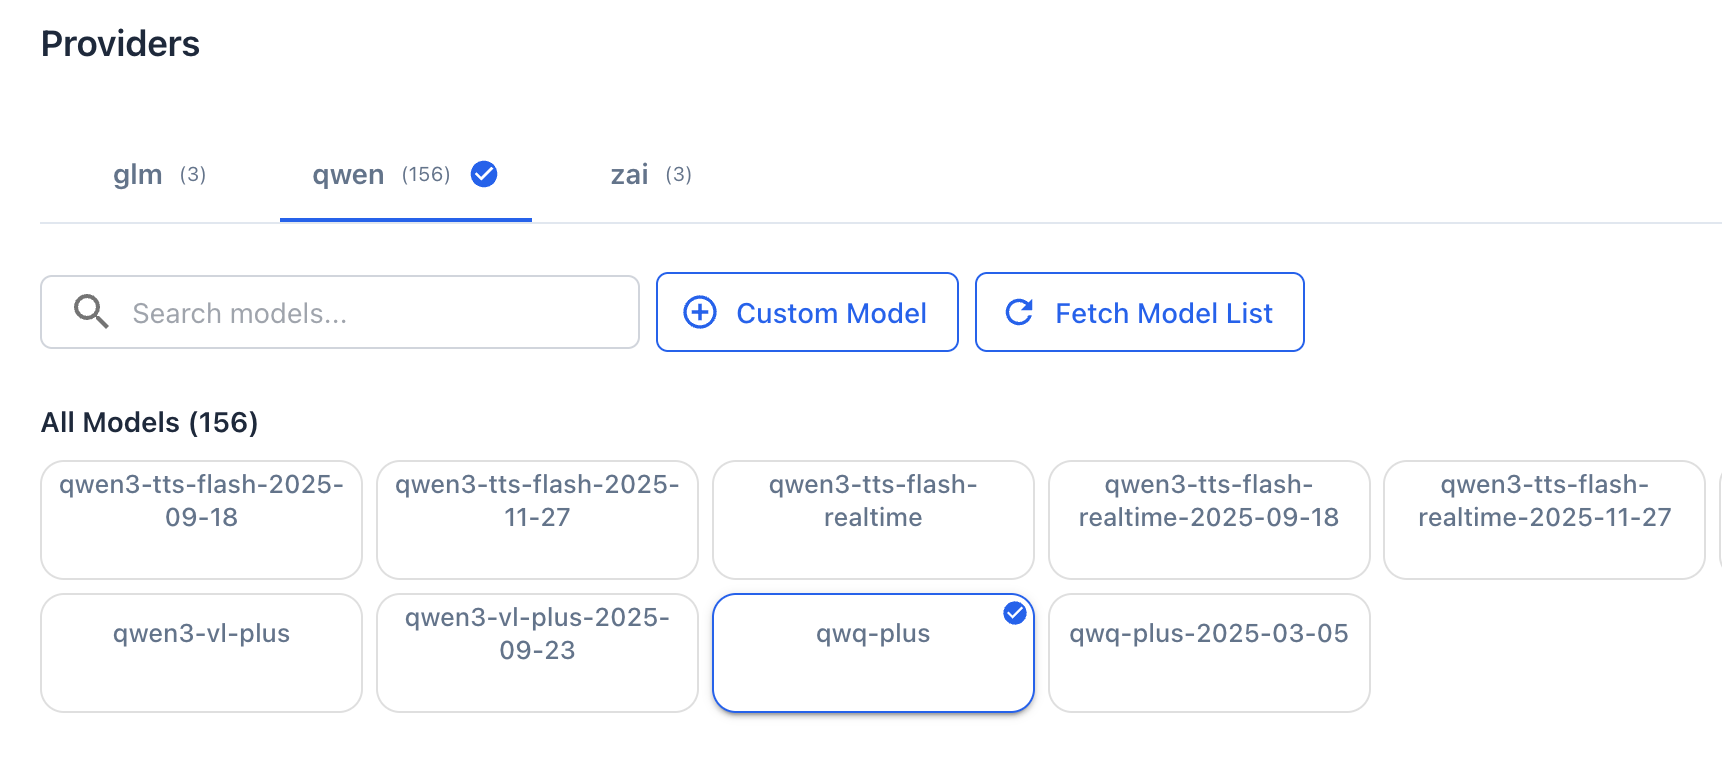
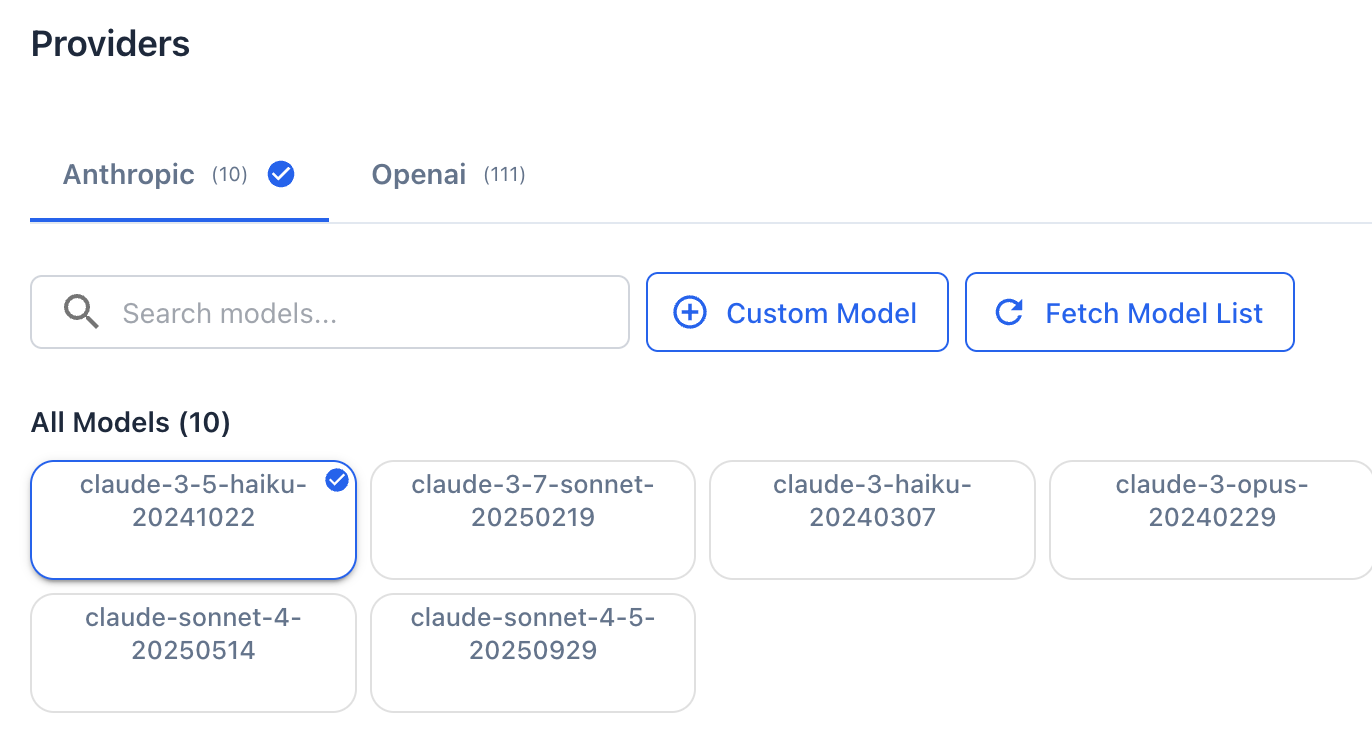
minor: update chooseProvider.png

diff --git a/src/data/code.tsx b/src/data/code.tsx
@@ -220,7 +220,7 @@ export const STEPS = [
                                 <RefreshCw size={14} className="text-cyan-400"/>
                             </div>
                             <p className={componentStyles.infoBox.text}>
-                                1. Click a provider (e.g., <b className="text-white">qwen</b>) and then click the <b
+                                1. Click a provider (e.g., <b className="text-white">Anthropic</b>) and then click the <b
                                 className="text-white">Fetch Model List</b> button to sync available models.
                             </p>
                         </div>
@@ -230,7 +230,7 @@ export const STEPS = [
                             </div>
                             <p className={componentStyles.infoBox.text}>
                                 2. Simply click your favorite <b className="text-white">model name</b> (e.g., <b
-                                className="text-white">qwq-plus</b>) to start routing requests.
+                                className="text-white">claude-3-5-haiku-20241022</b>) to start routing requests.
                             </p>
                         </div>
                     </div>
